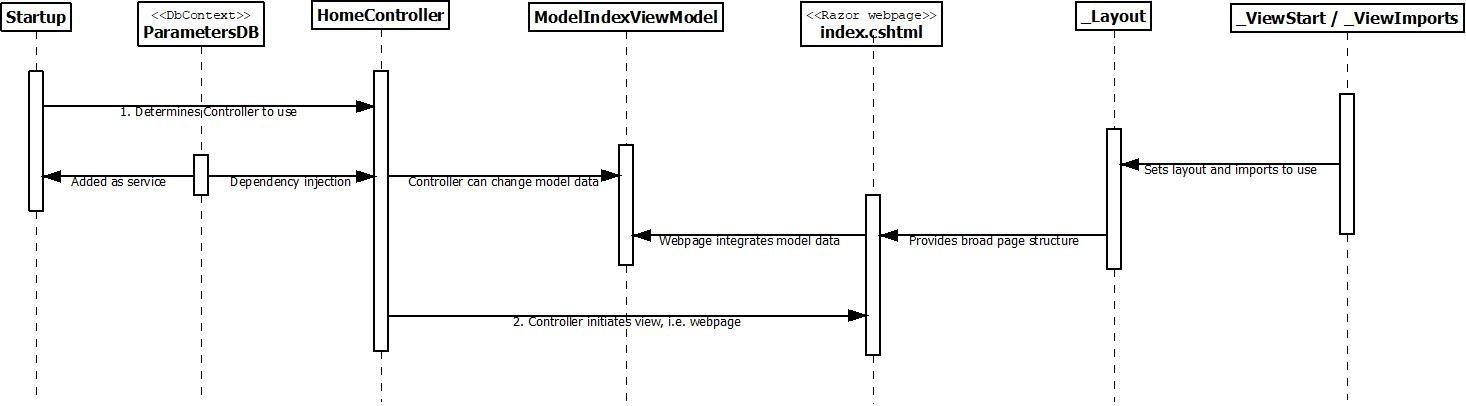
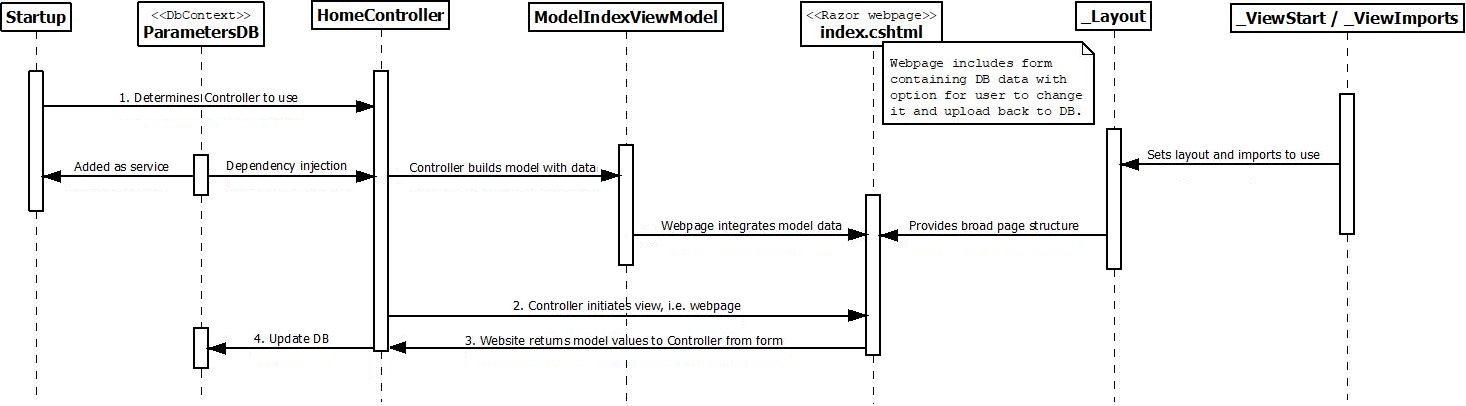
Site update

diff --git a/docs/index.html b/docs/index.html
@@ -38,8 +38,6 @@
     <li class="active"><a href="#"><span class="none"></span>Introduction</a></li>
     <li><a href="code.html" title="Code & UML"><span class="none"></span>Code & UML</a></li>
     <li><a href="api/api/index.html" title="API docs"><span class="none"></span>API docs</a></li>
-    <li><a href="dyetracecalc/archive/main.zip" title="Download Zip"><span class="none"></span>Download Zip</a></li>
-    <li><a href="./" title="Repository"><span class="none"></span>Repository</a></li>
   </ul>
           </nav>
           <div class="well sidebar-nav">
@@ -55,28 +53,33 @@
         <main id="bodyColumn"  class="span10" >
 <section>
 <h2><a name="Introduction"></a>Introduction</h2>
-<p>This code builds a website which calculates dye tracing information. It demonstrates the C# Model-View-Controller (MVC) framework.</p>
-<p>Although you&#x2019;ll need to download and run the project to see the site working, here&#x2019;s <a href="mockup.html">a mockup of the page</a>.</p>
+<p>This code builds a website which calculates dye tracing dispersion coefficients. It demonstrates the C# Model-View-Controller (MVC) framework. It builds a website with a form which is populated with parameters from a database. The form can be adjusted by the user and then submitted to calculate a dispersion coefficient.</p>
+<p>Although you&#x2019;ll need to download and run the project to see the site working, here&#x2019;s <a href="images/screenshot.jpeg">a screenshot of the page</a>.</p>
 <p>&#xa0;</p><section>
 <h3><a name="Building_and_testing_the_source_code"></a>Building and testing the source code</h3>
 <p>To run the site:</p>
 <ul>
 
-<li>Download the repo and unzip it on your machine.</li>
-<li>Install the latest .Net libraries (this code uses .Net 5; C# 9).</li>
-<li>Download and install Visual Studio (VS) Code.</li>
-<li>Install the C# for VS Code extension from Microsoft. You may also find the MSBuild tools useful.</li>
-<li>Open up the Workspace file <code>dyetracecalc.code-workspace</code></li>
-<li>Open a terminal in VS Code.</li>
-<li>At the terminal change directory (cd command) to the <code>DyeTraceCalcMvc</code> directory.</li>
+<li>Download the <a class="externalLink" href="https://github.com/AJEvans/dyetracecalc/archive/main.zip">the repo as a zip</a> and unzip it on your machine.</li>
+<li>Download and install <a class="externalLink" href="http://code.visualstudio.com/">Visual Studio (VS) Code</a>.</li>
+<li>Install the latest <a class="externalLink" href="http://www.microsoft.com/net/download/">.Net Software Development Kit (SDK)</a> (this code uses .Net 5; C# 9).</li>
+<li>Open VS Code and install the C# for VS Code extension from Microsoft. You may also find the MSBuild tools useful.</li>
+<li>In VS Code, go <code>File</code> -&gt; <code>Open Workspace...</code> and open the file <code>dyetracecalc.code-workspace</code>, which should be in the unzipped directory.</li>
+<li>Open a terminal in VS Code (<code>Terminal</code> -&gt; <code>New Terminal</code>).</li>
+<li>At the terminal change directory (cd command) to the <code>DyeTraceCalcMvc</code> directory, e.g. <code>cd c:\downloads\DyeTraceCalc\DyeTraceCalcMvc</code>.</li>
 <li>Enter <code>dotnet run</code>.</li>
 <li>Open a web browser with the URL <code>http://localhost:5000</code></li>
-</ul>
-<p>If the browser complains of security issues it may be automatically redirecting to the secure https version; you may need to install a developers&#x2019; certificate: at the terminal, enter</p>
+</ul><section>
+<h4><a name="Troubleshooting"></a>Troubleshooting</h4>
+<p>If the site doesn&#x2019;t run, you may need to rebuild the code to download libraries. At the Terminal prompt, type:</p>
+<p><code>dotnet build</code></p>
+<p>Then try running the code again.</p>
+<p>If your browser complains of security issues it may be automatically redirecting to the secure https version; you may need to install a developers&#x2019; certificate: at the terminal, enter</p>
 <p><code>dotnet dev--certs https --trust</code></p>
 <p>Close and reopen your web browser.</p>
 <p>&#xa0;</p>
-<p>Before using this code to run actual dye tracing experiments, please note the caveats in the comments for the file <code>/DyeTraceCalcMvc/Calc/Calculator.cs</code>.</p></section></section>
+<p>Before using this code to run actual dye tracing experiments, please note the caveats in the comments for the file <code>/DyeTraceCalcMvc/Calc/Calculator.cs</code>.</p>
+<p>The full repo for the source is <a class="externalLink" href="https://github.com/AJEvans/dyetracecalc/">on GitHub</a> if you need it.</p></section></section></section>
         </main>
       </div>
     </div>

diff --git a/docs/code.html b/docs/code.html
@@ -38,8 +38,6 @@
     <li><a href="index.html" title="Introduction"><span class="none"></span>Introduction</a></li>
     <li class="active"><a href="#"><span class="none"></span>Code & UML</a></li>
     <li><a href="api/api/index.html" title="API docs"><span class="none"></span>API docs</a></li>
-    <li><a href="dyetracecalc/archive/main.zip" title="Download Zip"><span class="none"></span>Download Zip</a></li>
-    <li><a href="./" title="Repository"><span class="none"></span>Repository</a></li>
   </ul>
           </nav>
           <div class="well sidebar-nav">
@@ -55,13 +53,28 @@
         <main id="bodyColumn"  class="span10" >
 <section>
 <h2><a name="Code_.26_UML"></a>Code &amp; UML</h2>
-<p>For the sake of demonstrating database connectivity, the parameters, which can be changed by the user, are stored in an <a class="externalLink" href="https://www.sqlite.org/index.html">SQLite database</a>. The code uses scaffold Entity Framework (EF Core) classes to communicate with the database.</p>
-<p>I haven&#x2019;t implemented authentication or demanded httpd to save having to log in or add a developers&#x2019; certificate to look at the site, but this is easy enough to add.</p>
+<p>For the sake of demonstrating database connectivity, the parameters, which can be changed by the user, are stored in an <a class="externalLink" href="https://www.sqlite.org/index.html">SQLite database</a>. The code uses scaffold Entity Framework (EF Core) classes to communicate with the database. Usually we&#x2019;d leave the default parameters in the database, but as a demonstration of user inputs through to the database, they&#x2019;re updated with each use.</p>
+<p>I haven&#x2019;t implemented authentication or demanded https to save having to log in or add a developers&#x2019; certificate to look at the site, but this is easy enough to add.</p>
 <p>Before using this code to run actual dye tracing experiments, please note the caveats in the comments for the file <code>/DyeTraceCalcMvc/Calc/Calculator.cs</code>.</p>
 <p>&#xa0;</p>
-<p>MVC involves a great many files. The following sequence diagram outlines the important directly coded files and how they interact.</p>
+<p>The following sequence diagram gives an outline of the major directly coded files in the system and how they interact to implement the Model-View-Controller (MVC) architecture. The Controller is <b>HomeController</b>, the Model <b>ModelIndexViewModel</b>, and the View is composed from the <b>index.cshtml</b>, <b>_Layout.cshtml</b>, <b>_ViewStart.cshtml</b>, and <b>_ViewImports.cshtml</b> files.</p>
 <p>&#xa0;</p>
-<p><img src="images/sequence.jpeg" alt="UML Sequence diagram" title="UML Sequence diagram" /></p></section>
+<p><img src="images/sequence.jpeg" alt="UML Sequence diagram" title="UML Sequence diagram" /></p>
+<p>The location of chief files are:</p>
+<ul>
+
+<li><code>Program.cs</code>: Main class starting website.</li>
+<li><code>Startup.cs</code>: Class that registers services (e.g. the database) and fixes URL format so URLs reference the Controller to use and the Actions they should take.</li>
+<li><code>DyeTraceCalcMvc\Controllers\HomeController.cs</code>: Controller that builds the data model, and interprets Actions requested in URLs and fires appropriate View methods.</li>
+<li><code>ParameterDBContextLib\ParametersDB.cs</code>: Library file representing the &#x201c;parametersdb&#x201d; database.</li>
+<li><code>ParameterDBEntitiesLib\Parameter.cs</code>: Library file representing &#x201c;Parameters&#x201d; database table.</li>
+<li><code>DyeTraceCalcMvc\Models\HomeIndexViewModel.cs</code>: Model code to contain representations of the database data as <code>Parameter</code> objects.</li>
+<li><code>DyeTraceCalcMvc\Views\Home\Index.cshtml</code>: Partial View webpage containing data from the model as a form so users can change it.</li>
+<li><code>DyeTraceCalcMvc\Views\Shared\_Layout.cshtml</code>: Overarching webpage template used on all pages to embed partial pages.</li>
+<li><code>DyeTraceCalcMvc\Home\_ViewStart.cshtml</code>: Dictates use of <code>_Layout.cshtml</code> overarching template.</li>
+<li><code>DyeTraceCalcMvc\Home\_ViewImports.cshtml</code>: Imports core code and models into other <code>.cshtml</code> pages.</li>
+<li><code>DyeTraceCalcMvc\Calc\Calculator.cs</code>: Code to calculate results called by Controller, which feeds it form data.</li>
+</ul></section>
         </main>
       </div>
     </div>

diff --git a/docs/api/api/Io.Github.AJEvans.DyeTraceCalc.Calc.Calculator.html b/docs/api/api/Io.Github.AJEvans.DyeTraceCalc.Calc.Calculator.html
@@ -83,16 +83,17 @@
   <h5 id="Io_Github_AJEvans_DyeTraceCalc_Calc_Calculator_remarks"><strong>Remarks</strong></h5>
   <div class="markdown level0 remarks"><p>This does the work of converting the parameters from the database and/or
 user into answers.
-It calculates values associated with the dispirsion of a cloud of dye as it travels through a
+It calculates values associated with the dispersion of a cloud of dye as it travels through a
 water system. 'Time one' is the time to reach half the peak value in minutes,
-'time two' is the time for it to fall back to half the peak value after the peak
+'time two' is the time from the start for it to fall back to half the peak value after the peak
 has passed. The output includes the estimate of the peak time and the dispersion
 coefficient. Basically it estimates the diffusivity iteratively
 until it stabilizes within a tolerance. For more details,
 see the associated website (/Views/Home/Index.cshtml)
 This is a direct port of Java code written by me in 1998 for Dr Mike Crabtree's PhD work
-in Iceland (<a href="https://www.sheffield.ac.uk/economics/staff/professional/mike-crabtree">https://www.sheffield.ac.uk/economics/staff/professional/mike-crabtree</a>). It has
-to be said that I haven't looked at it since, and one would
+in Iceland (<a href="https://www.sheffield.ac.uk/economics/staff/professional/mike-crabtree">https://www.sheffield.ac.uk/economics/staff/professional/mike-crabtree</a>). At the
+time it was based on a widely used Excel version which didn't optimise for a single result. It has
+to be said that I haven't looked at it since then, and one would
 hope there are better ways of calculating this now. Before using it in a real situation
 I'd take time to double check the calculations.</p>
 </div>
@@ -140,7 +141,7 @@ I'd take time to double check the calculations.</p>
       <tr>
         <td><span class="xref">System.Int32</span></td>
         <td><span class="parametername">time2</span></td>
-        <td><p>The time to reach half the peak value again in minutes after the peak has passed.</p>
+        <td><p>The time from start to reach half the peak value again in minutes after the peak has passed.</p>
 </td>
       </tr>
       <tr>
@@ -152,7 +153,8 @@ I'd take time to double check the calculations.</p>
       <tr>
         <td><span class="xref">System.Boolean</span></td>
         <td><span class="parametername">optimise</span></td>
-        <td><p>Whether to make a one-off estimate or iterate more.</p>
+        <td><p>Whether to make a one-off estimate or return multiple results. Here, for ease of understanding, we set
+this to 'true' removing the option for outputting multiple results for bespoke averaging etc.</p>
 </td>
       </tr>
     </tbody>
@@ -170,10 +172,7 @@ I'd take time to double check the calculations.</p>
         <td><span class="xref">System.ValueTuple</span>&lt;<span class="xref">System.String</span>, <span class="xref">System.String</span>&gt;</td>
         <td><p>A tuple containing:
 Time: An estimate of the peak concentration time.
-Dispersion: An estimate of the dispersion coefficient.
-Or, if the result doesn't settle, a warning that more than 300 iterations have occurred.
-It should be noted that this might be adjusted - back when this was written, 300 iterations took
-a long time!</p>
+Dispersion: An estimate of the dispersion coefficient.</p>
 </td>
       </tr>
     </tbody>

diff --git a/docs/dependencies.html b/docs/dependencies.html
@@ -38,8 +38,6 @@
     <li><a href="index.html" title="Introduction"><span class="none"></span>Introduction</a></li>
     <li><a href="code.html" title="Code & UML"><span class="none"></span>Code & UML</a></li>
     <li><a href="api/api/index.html" title="API docs"><span class="none"></span>API docs</a></li>
-    <li><a href="dyetracecalc/archive/main.zip" title="Download Zip"><span class="none"></span>Download Zip</a></li>
-    <li><a href="./" title="Repository"><span class="none"></span>Repository</a></li>
   </ul>
           </nav>
           <div class="well sidebar-nav">

diff --git a/docs/dependency-info.html b/docs/dependency-info.html
@@ -38,8 +38,6 @@
     <li><a href="index.html" title="Introduction"><span class="none"></span>Introduction</a></li>
     <li><a href="code.html" title="Code & UML"><span class="none"></span>Code & UML</a></li>
     <li><a href="api/api/index.html" title="API docs"><span class="none"></span>API docs</a></li>
-    <li><a href="dyetracecalc/archive/main.zip" title="Download Zip"><span class="none"></span>Download Zip</a></li>
-    <li><a href="./" title="Repository"><span class="none"></span>Repository</a></li>
   </ul>
           </nav>
           <div class="well sidebar-nav">

diff --git a/docs/plugin-management.html b/docs/plugin-management.html
@@ -38,8 +38,6 @@
     <li><a href="index.html" title="Introduction"><span class="none"></span>Introduction</a></li>
     <li><a href="code.html" title="Code & UML"><span class="none"></span>Code & UML</a></li>
     <li><a href="api/api/index.html" title="API docs"><span class="none"></span>API docs</a></li>
-    <li><a href="dyetracecalc/archive/main.zip" title="Download Zip"><span class="none"></span>Download Zip</a></li>
-    <li><a href="./" title="Repository"><span class="none"></span>Repository</a></li>
   </ul>
           </nav>
           <div class="well sidebar-nav">

diff --git a/docs/plugins.html b/docs/plugins.html
@@ -38,8 +38,6 @@
     <li><a href="index.html" title="Introduction"><span class="none"></span>Introduction</a></li>
     <li><a href="code.html" title="Code & UML"><span class="none"></span>Code & UML</a></li>
     <li><a href="api/api/index.html" title="API docs"><span class="none"></span>API docs</a></li>
-    <li><a href="dyetracecalc/archive/main.zip" title="Download Zip"><span class="none"></span>Download Zip</a></li>
-    <li><a href="./" title="Repository"><span class="none"></span>Repository</a></li>
   </ul>
           </nav>
           <div class="well sidebar-nav">

diff --git a/docs/project-info.html b/docs/project-info.html
@@ -38,8 +38,6 @@
     <li><a href="index.html" title="Introduction"><span class="none"></span>Introduction</a></li>
     <li><a href="code.html" title="Code & UML"><span class="none"></span>Code & UML</a></li>
     <li><a href="api/api/index.html" title="API docs"><span class="none"></span>API docs</a></li>
-    <li><a href="dyetracecalc/archive/main.zip" title="Download Zip"><span class="none"></span>Download Zip</a></li>
-    <li><a href="./" title="Repository"><span class="none"></span>Repository</a></li>
   </ul>
           </nav>
           <div class="well sidebar-nav">

diff --git a/docs/summary.html b/docs/summary.html
@@ -38,8 +38,6 @@
     <li><a href="index.html" title="Introduction"><span class="none"></span>Introduction</a></li>
     <li><a href="code.html" title="Code & UML"><span class="none"></span>Code & UML</a></li>
     <li><a href="api/api/index.html" title="API docs"><span class="none"></span>API docs</a></li>
-    <li><a href="dyetracecalc/archive/main.zip" title="Download Zip"><span class="none"></span>Download Zip</a></li>
-    <li><a href="./" title="Repository"><span class="none"></span>Repository</a></li>
   </ul>
           </nav>
           <div class="well sidebar-nav">
